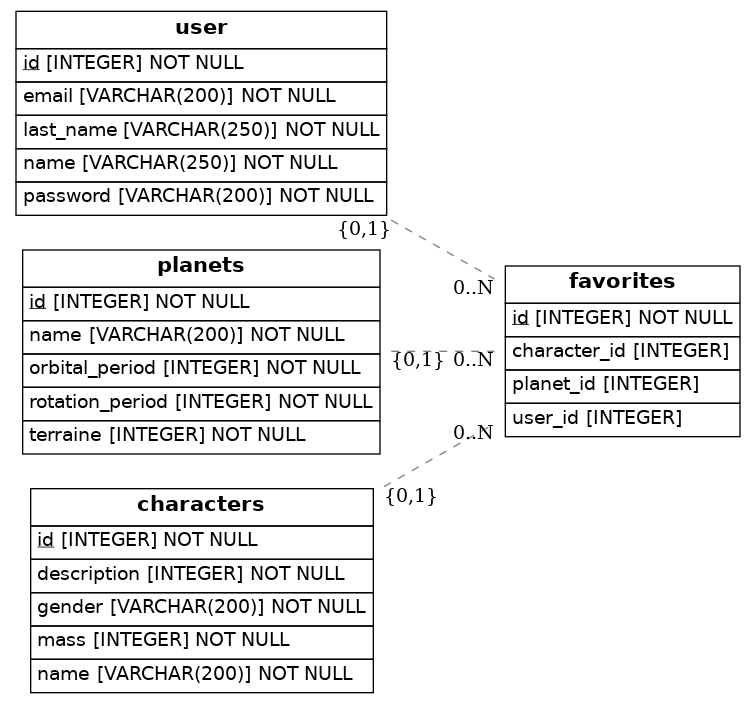
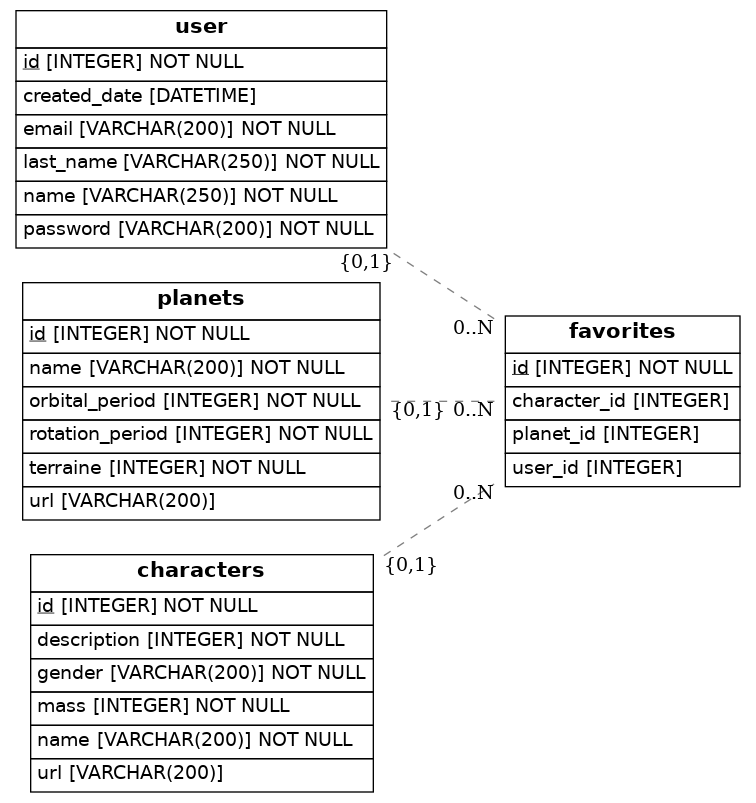
Bonus

diff --git a/src/models.py b/src/models.py
@@ -1,6 +1,8 @@
+
+import datetime
 import os
 import sys
-from sqlalchemy import Column, ForeignKey, Integer, String
+from sqlalchemy import Column, ForeignKey, Integer, String, DateTime
 from sqlalchemy.orm import relationship, declarative_base
 from sqlalchemy import create_engine
 from eralchemy2 import render_er
@@ -14,6 +16,7 @@ class User(Base):
     last_name = Column(String(250), nullable=False)
     email = Column(String(200), nullable=False)
     password = Column(String(200), nullable=False)
+    created_date = Column(DateTime, default=datetime.datetime)
  
  
 class Planets(Base):
@@ -23,6 +26,8 @@ class Planets(Base):
     rotation_period = Column(Integer, nullable=False)
     orbital_period = Column(Integer, nullable=False)
     terraine = Column(Integer, nullable=False)
+    url = Column(String(200), unique=True)
+    
 
 class Characters(Base):
     __tablename__ = 'characters'
@@ -31,6 +36,9 @@ class Characters(Base):
     description = Column(Integer, nullable=False)
     mass = Column(Integer, nullable=False)
     gender = Column(String(200), nullable=False)
+    url = Column(String(200), unique=True)
+
+
  
 class Favorites(Base):
     __tablename__ = 'favorites'
